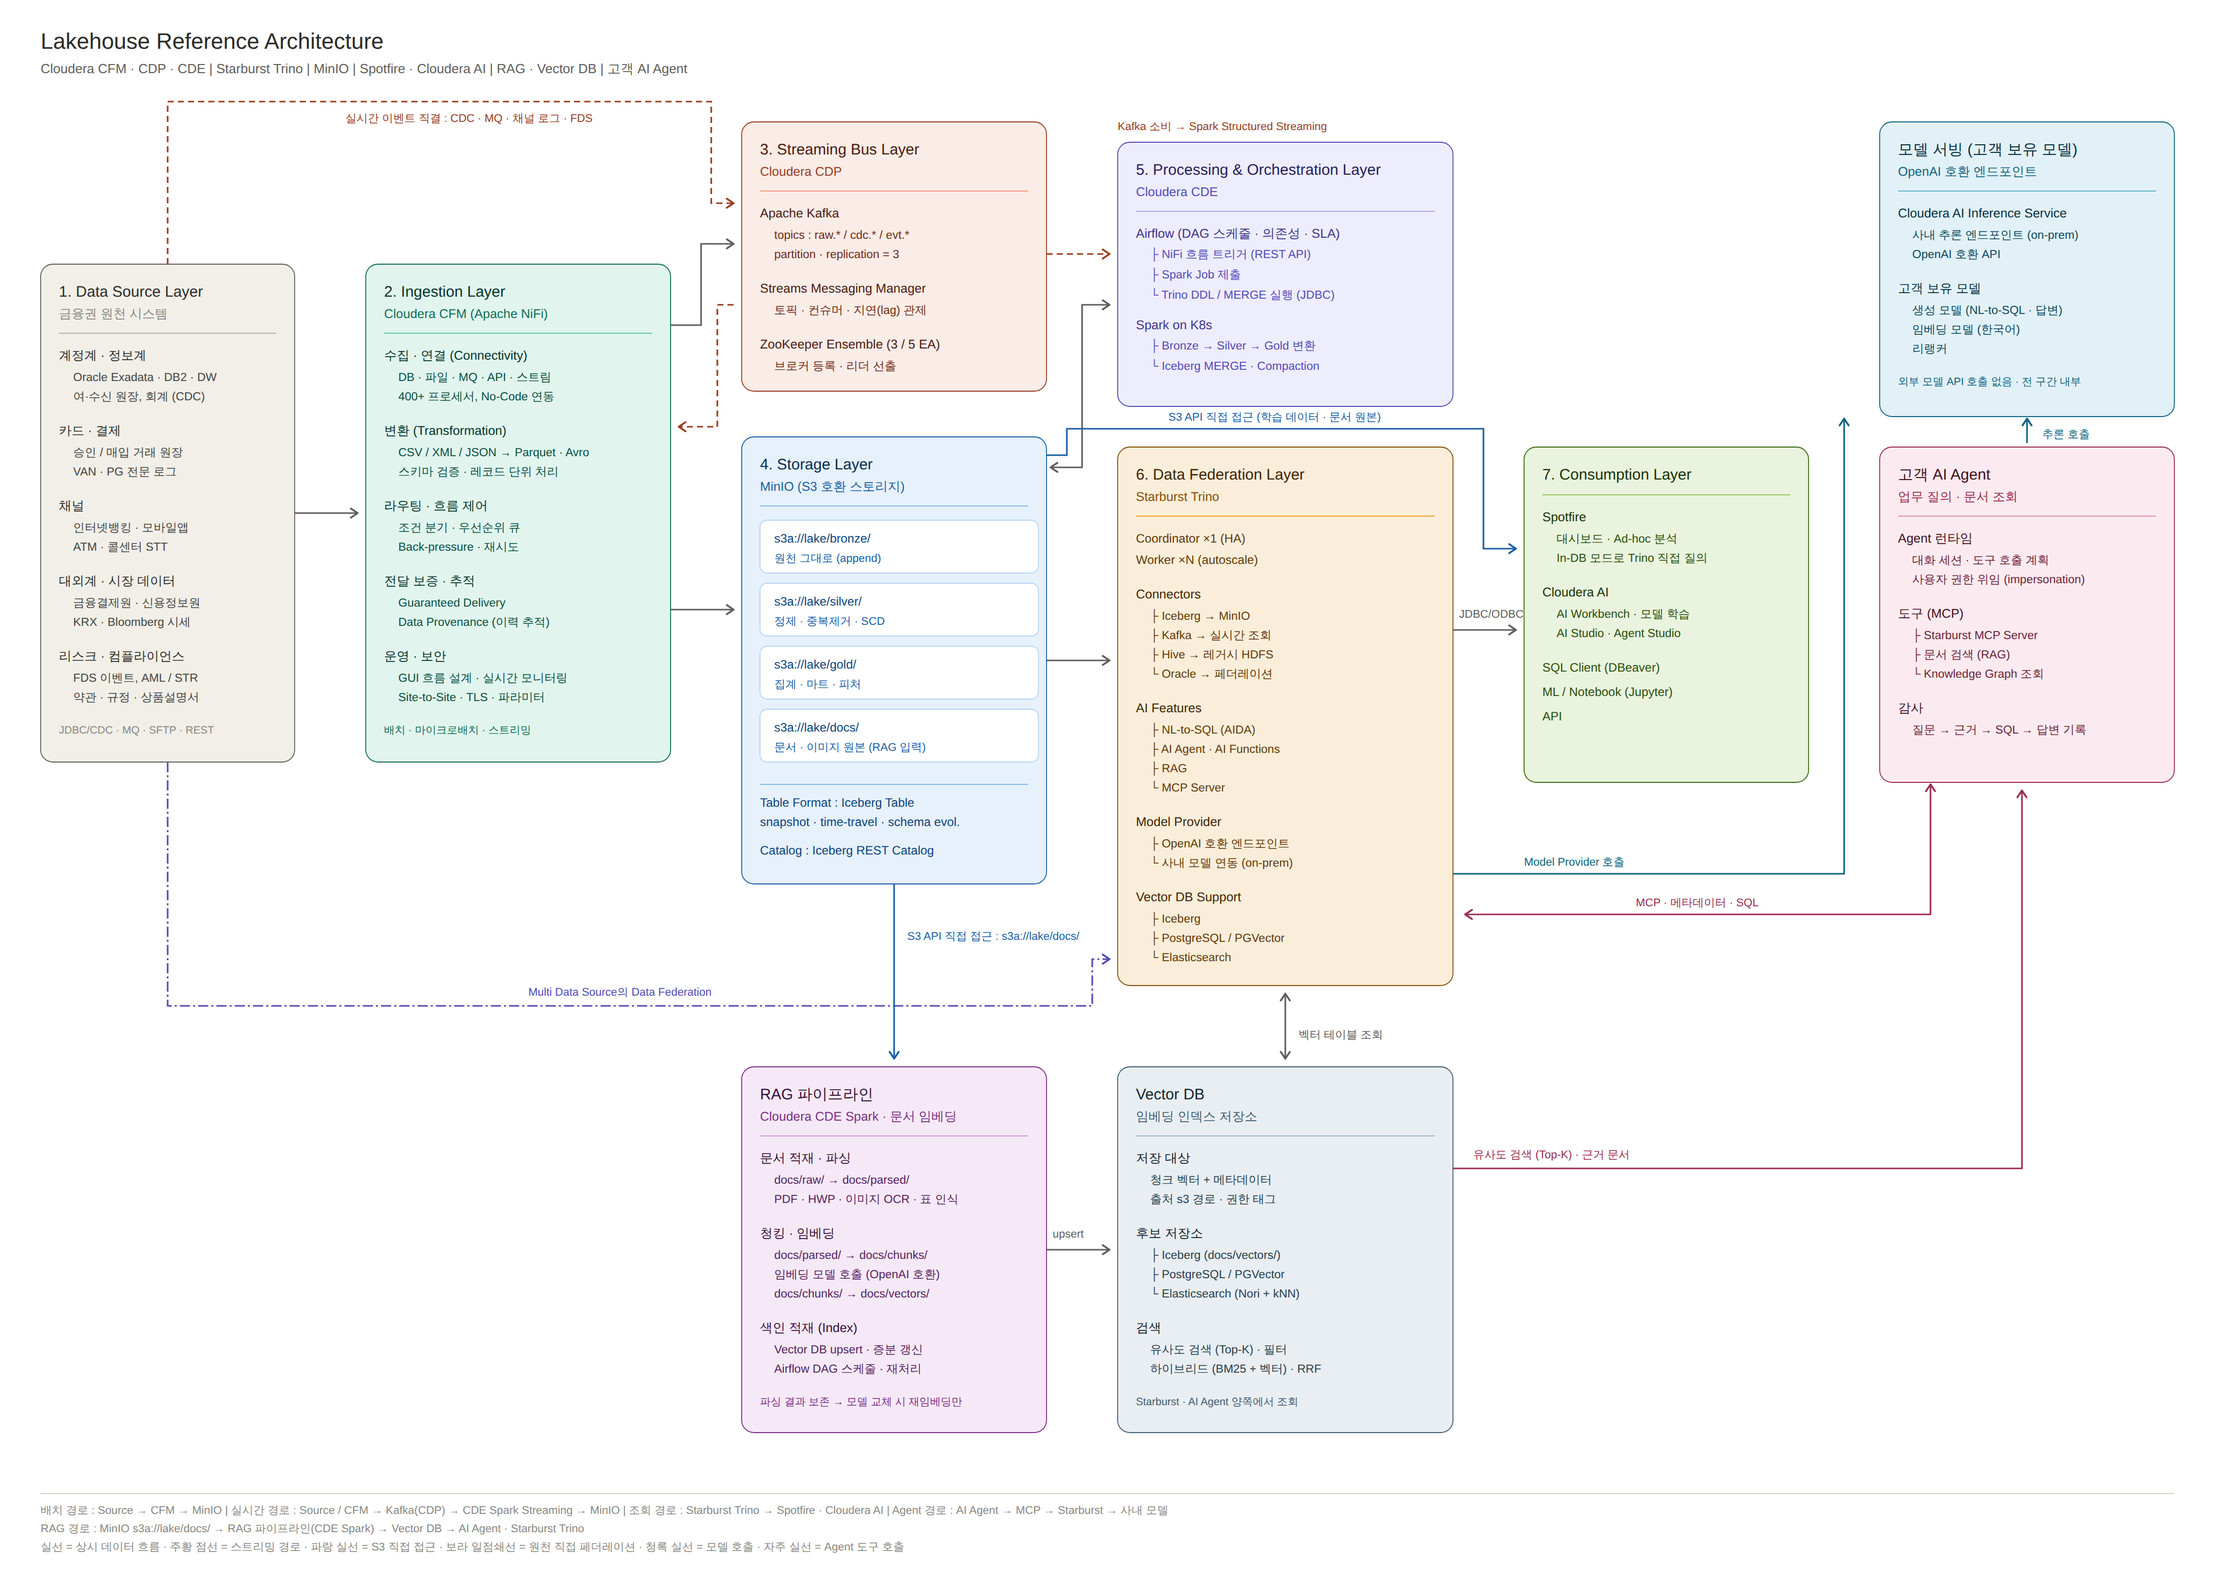
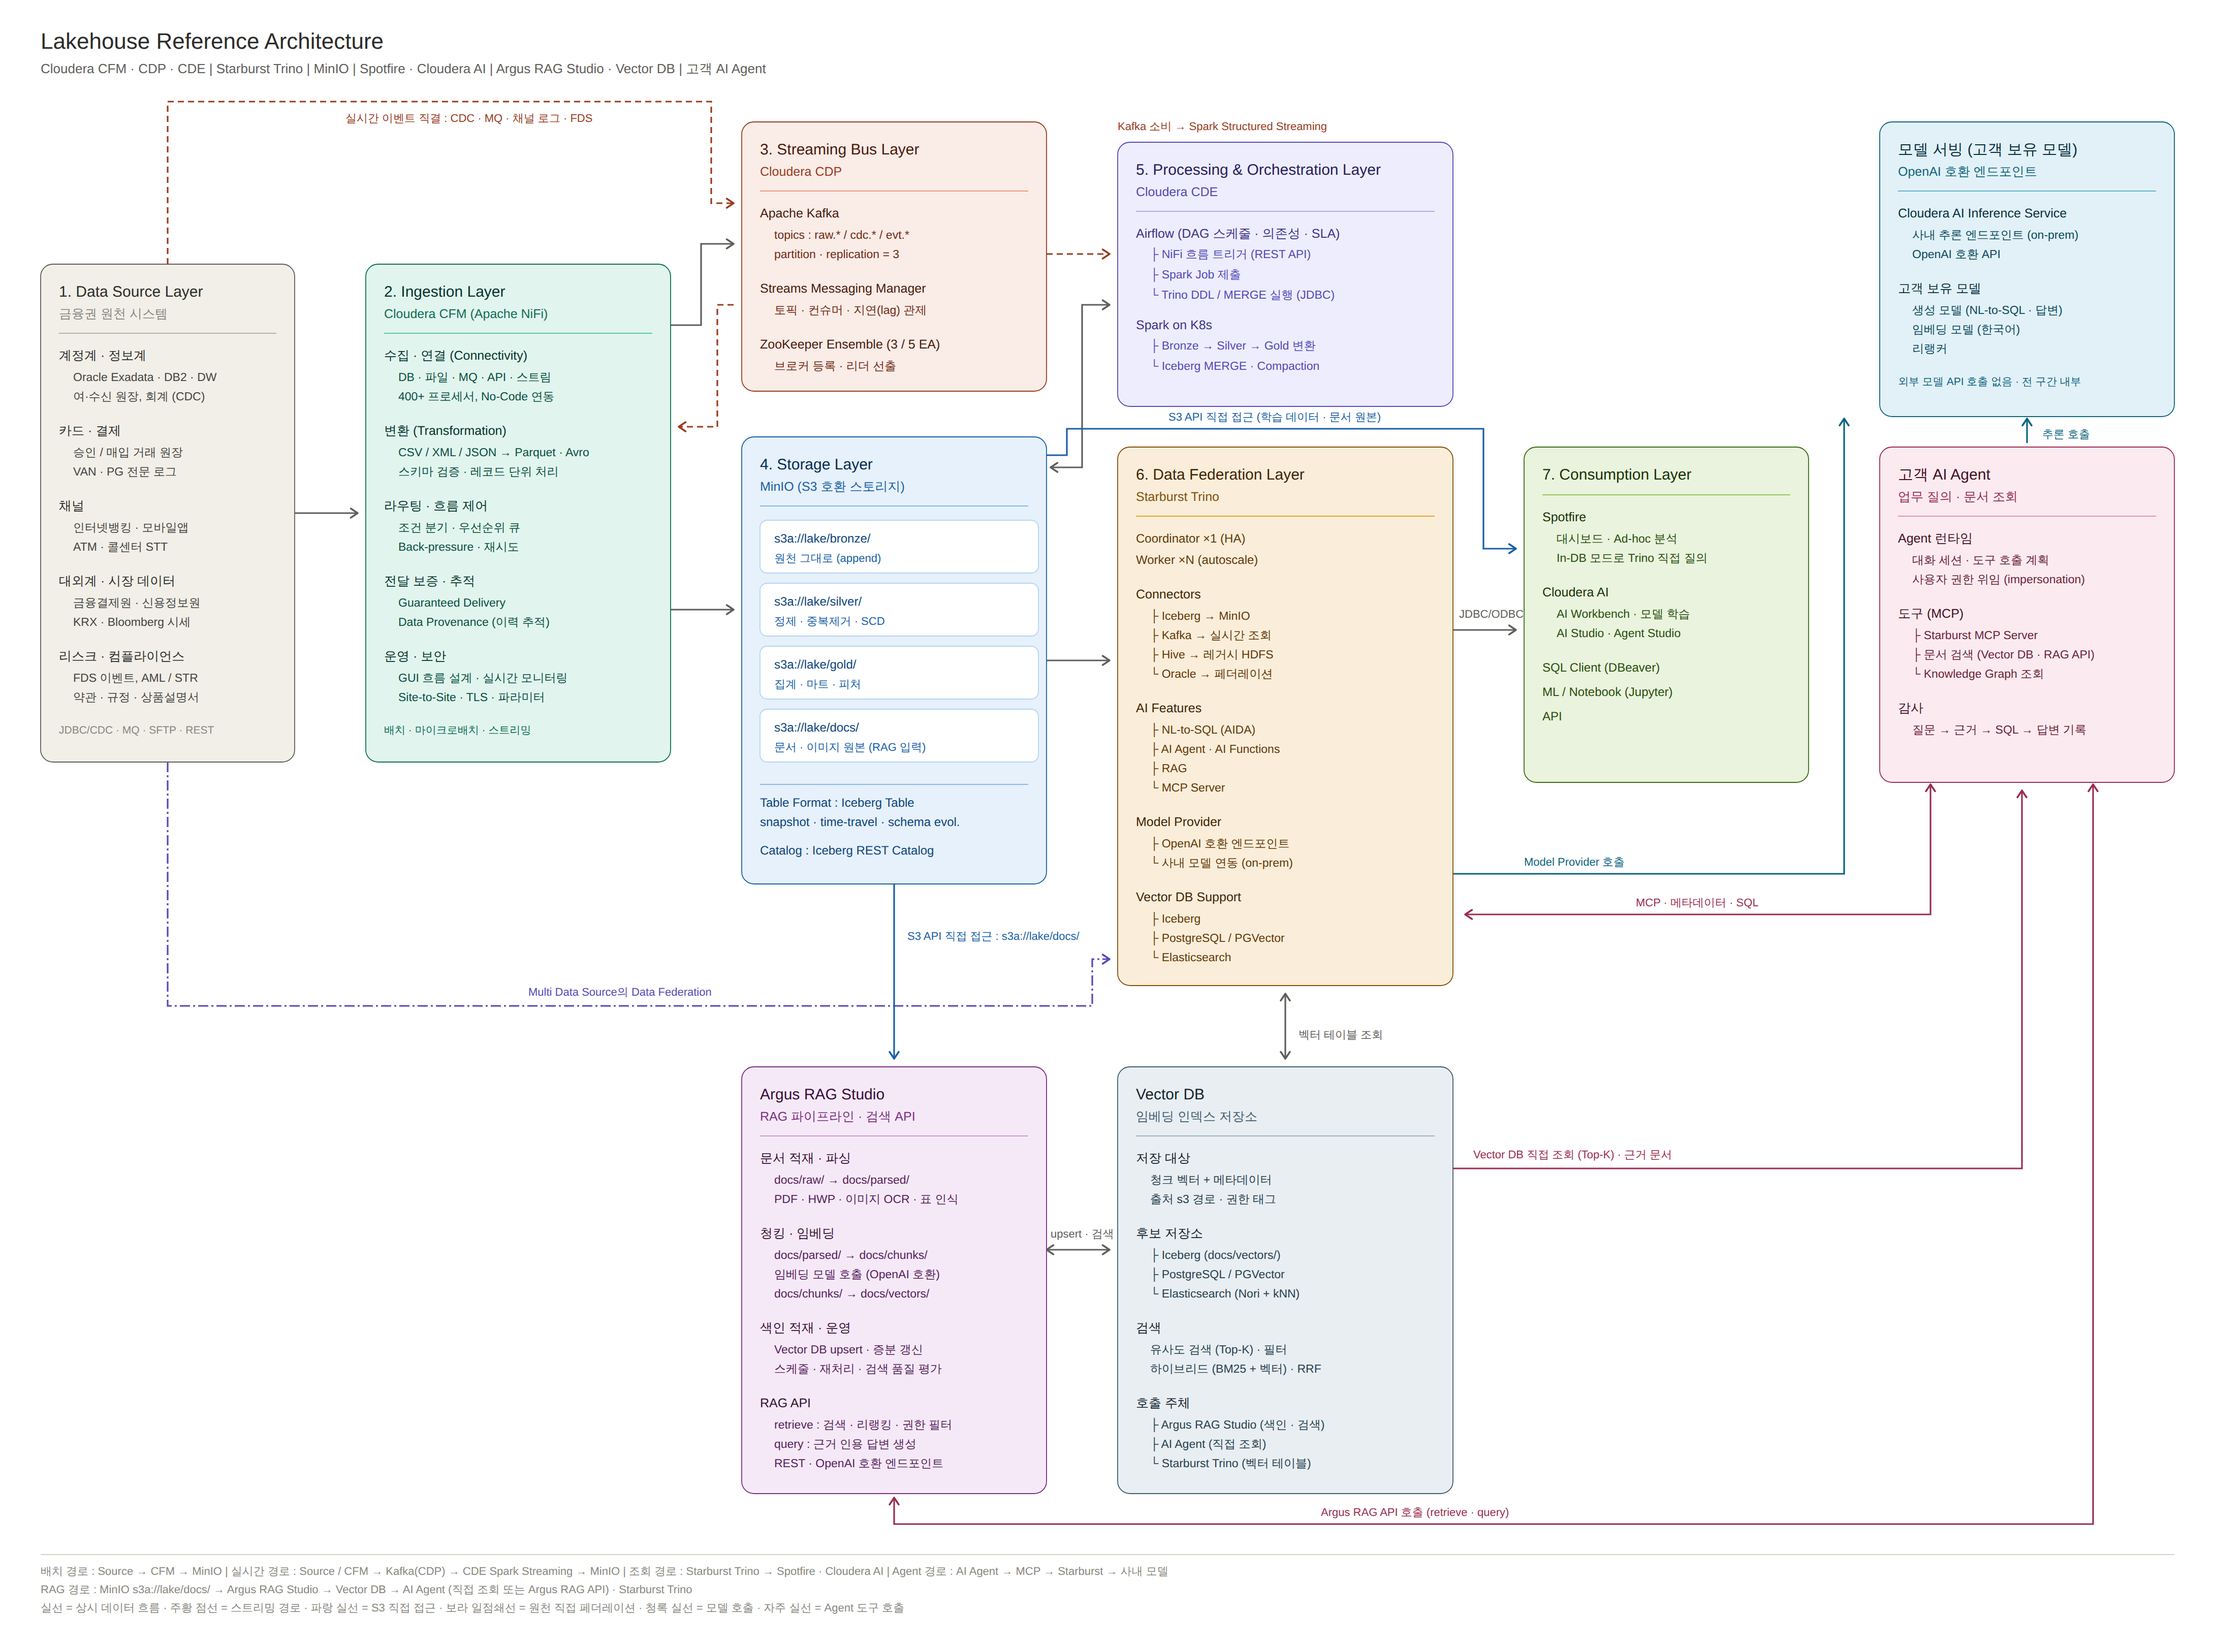
RAG 상자를 Argus RAG Studio 기준으로 재구성하고 Agent → RAG API 경로 추가
RAG 파이프라인을 범용 CDE Spark 작업으로 그렸으나, 실제로는 Argus RAG Studio가
파이프라인과 검색 API를 함께 담당한다. 상자를 제품 기준으로 바꾸고 API 계층을
추가한다.

- Argus RAG Studio : 적재·파싱 → 청킹·임베딩 → 색인·운영 → RAG API
  (retrieve · query, REST · OpenAI 호환)
- Vector DB : 호출 주체 그룹 추가 (Studio · Agent 직접 · Trino)
- Agent ↔ Argus RAG Studio 양방향 경로 신설. Agent는 Vector DB 직접 조회와
  RAG API 호출 중 선택할 수 있다
- Studio ↔ Vector DB 경로를 양방향으로 (색인 upsert + API 처리 시 검색)

두 상자 높이 360 → 420, 캔버스 1560 → 1620, PNG 4360x3240.

architecture.md에 Agent가 두 경로 중 어느 쪽을 쓸지 고르는 기준 표를 넣었다.

Claude-Session: https://claude.ai/code/session_01HesvhqauQbAnGpB8iFjcEm

diff --git a/scripts/generate_architecture_svg.py b/scripts/generate_architecture_svg.py
@@ -33,7 +33,7 @@ from xml.sax.saxutils import escape
 # --------------------------------------------------------------------------
 
 CANVAS_W = 2180
-CANVAS_H = 1560
+CANVAS_H = 1620
 BACKGROUND = "#FFFFFF"
 
 FONT_STACK = (
@@ -44,7 +44,8 @@ FONT_STACK = (
 TITLE = "Lakehouse Reference Architecture"
 SUBTITLE = (
     "Cloudera CFM \u00b7 CDP \u00b7 CDE  |  Starburst Trino  |  MinIO  |  "
-    "Spotfire \u00b7 Cloudera AI  |  RAG \u00b7 Vector DB  |  \uace0\uac1d AI Agent"
+    "Spotfire \u00b7 Cloudera AI  |  Argus RAG Studio \u00b7 Vector DB  |  "
+    "\uace0\uac1d AI Agent"
 )
 
 # --------------------------------------------------------------------------
@@ -341,7 +342,7 @@ BOXES: list[Box] = [
             ]),
             Group("도구 (MCP)", [
                 "├ Starburst MCP Server",
-                "├ 문서 검색 (RAG)",
+                "├ 문서 검색 (Vector DB · RAG API)",
                 "└ Knowledge Graph 조회",
             ]),
             Group("감사", [
@@ -350,9 +351,9 @@ BOXES: list[Box] = [
         ],
     ),
     Box(
-        key="rag", x=730, y=1050, w=300, h=360, ramp="plum",
-        title="RAG 파이프라인",
-        subtitle="Cloudera CDE Spark · 문서 임베딩",
+        key="rag", x=730, y=1050, w=300, h=420, ramp="plum",
+        title="Argus RAG Studio",
+        subtitle="RAG 파이프라인 · 검색 API",
         blocks=[
             Group("문서 적재 · 파싱", [
                 "docs/raw/ → docs/parsed/",
@@ -363,15 +364,19 @@ BOXES: list[Box] = [
                 "임베딩 모델 호출 (OpenAI 호환)",
                 "docs/chunks/ → docs/vectors/",
             ]),
-            Group("색인 적재 (Index)", [
+            Group("색인 적재 · 운영", [
                 "Vector DB upsert · 증분 갱신",
-                "Airflow DAG 스케줄 · 재처리",
+                "스케줄 · 재처리 · 검색 품질 평가",
             ]),
-            Note("파싱 결과 보존 → 모델 교체 시 재임베딩만"),
+            Group("RAG API", [
+                "retrieve : 검색 · 리랭킹 · 권한 필터",
+                "query : 근거 인용 답변 생성",
+                "REST · OpenAI 호환 엔드포인트",
+            ]),
         ],
     ),
     Box(
-        key="vectordb", x=1100, y=1050, w=330, h=360, ramp="steel",
+        key="vectordb", x=1100, y=1050, w=330, h=420, ramp="steel",
         title="Vector DB",
         subtitle="임베딩 인덱스 저장소",
         blocks=[
@@ -388,7 +393,11 @@ BOXES: list[Box] = [
                 "유사도 검색 (Top-K) · 필터",
                 "하이브리드 (BM25 + 벡터) · RRF",
             ]),
-            Note("Starburst · AI Agent 양쪽에서 조회"),
+            Group("호출 주체", [
+                "├ Argus RAG Studio (색인 · 검색)",
+                "├ AI Agent (직접 조회)",
+                "└ Starburst Trino (벡터 테이블)",
+            ]),
         ],
     ),
 ]
@@ -453,10 +462,14 @@ EDGES: list[Edge] = [
     Edge("M880 870 V1042", DIRECT,
          label="S3 API \uc9c1\uc811 \uc811\uadfc : s3a://lake/docs/",
          label_xy=(893, 925)),
-    Edge("M1030 1230 H1092", label="upsert", label_xy=(1036, 1218)),
+    Edge("M1030 1230 H1092", both=True,
+         label="upsert \u00b7 \uac80\uc0c9", label_xy=(1034, 1218)),
     Edge("M1430 1150 H1990 V778", AGENT,
-         label="\uc720\uc0ac\ub3c4 \uac80\uc0c9 (Top-K) \u00b7 \uadfc\uac70 \ubb38\uc11c",
+         label="Vector DB \uc9c1\uc811 \uc870\ud68c (Top-K) \u00b7 \uadfc\uac70 \ubb38\uc11c",
          label_xy=(1450, 1140)),
+    Edge("M2060 772 V1500 H880 V1474", AGENT, both=True,
+         label="Argus RAG API \ud638\ucd9c (retrieve \u00b7 query)",
+         label_xy=(1300, 1492)),
     Edge("M1265 1042 V978", both=True,
          label="\ubca1\ud130 \ud14c\uc774\ube14 \uc870\ud68c",
          label_xy=(1278, 1022)),
@@ -469,9 +482,9 @@ LEGEND = [
     "Starburst Trino \u2192 Spotfire \u00b7 Cloudera AI   |   "
     "Agent \uacbd\ub85c : AI Agent \u2192 MCP \u2192 Starburst \u2192 "
     "\uc0ac\ub0b4 \ubaa8\ub378",
-    "RAG \uacbd\ub85c : MinIO s3a://lake/docs/ \u2192 RAG "
-    "\ud30c\uc774\ud504\ub77c\uc778(CDE Spark) \u2192 Vector DB \u2192 "
-    "AI Agent \u00b7 Starburst Trino",
+    "RAG \uacbd\ub85c : MinIO s3a://lake/docs/ \u2192 Argus RAG Studio "
+    "\u2192 Vector DB \u2192 AI Agent (\uc9c1\uc811 \uc870\ud68c \ub610\ub294 "
+    "Argus RAG API) \u00b7 Starburst Trino",
     "\uc2e4\uc120 = \uc0c1\uc2dc \ub370\uc774\ud130 \ud750\ub984   \u00b7   "
     "\uc8fc\ud669 \uc810\uc120 = \uc2a4\ud2b8\ub9ac\ubc0d \uacbd\ub85c   \u00b7   "
     "\ud30c\ub791 \uc2e4\uc120 = S3 \uc9c1\uc811 \uc811\uadfc   \u00b7   "
@@ -581,12 +594,13 @@ def build() -> str:
         'Cloudera CDE processing, Starburst Trino federation with an '
         'on-premises model provider, consumption, a customer AI agent '
         'calling Starburst over MCP, and internally served customer '
-        'models. Along the bottom, a RAG pipeline reads document '
+        'models. Along the bottom, Argus RAG Studio reads document '
         'originals from the MinIO docs zone over the S3 API, parses, '
-        'chunks and embeds them, writes the embeddings into a vector '
-        'database, and the vector database serves top-K retrieval to '
-        'the customer AI agent and vector tables to Starburst '
-        'Trino.</desc>',
+        'chunks and embeds them, and writes the embeddings into a '
+        'vector database. The AI agent reaches the vectors either by '
+        'querying the vector database directly or through the Argus '
+        'RAG API; Starburst Trino exposes the same vectors as '
+        'tables.</desc>',
         '<defs><marker id="arrow" viewBox="0 0 10 10" refX="8" refY="5" '
         'markerWidth="7" markerHeight="7" orient="auto-start-reverse">'
         '<path d="M2 1L8 5L2 9" fill="none" stroke="context-stroke" '
@@ -603,10 +617,10 @@ def build() -> str:
     for box in BOXES:
         parts += render_box(box)
 
-    parts.append(f'<line x1="40" y1="1470" x2="{CANVAS_W - 40}" y2="1470" '
+    parts.append(f'<line x1="40" y1="1530" x2="{CANVAS_W - 40}" y2="1530" '
                  f'stroke="{HAIRLINE}" stroke-width="0.9"/>')
     for i, line in enumerate(LEGEND):
-        parts.append(text(40, 1490 + i * 18, line, 11, "#888780"))
+        parts.append(text(40, 1550 + i * 18, line, 11, "#888780"))
     parts.append("</svg>")
     return "\n".join(parts) + "\n"
 
